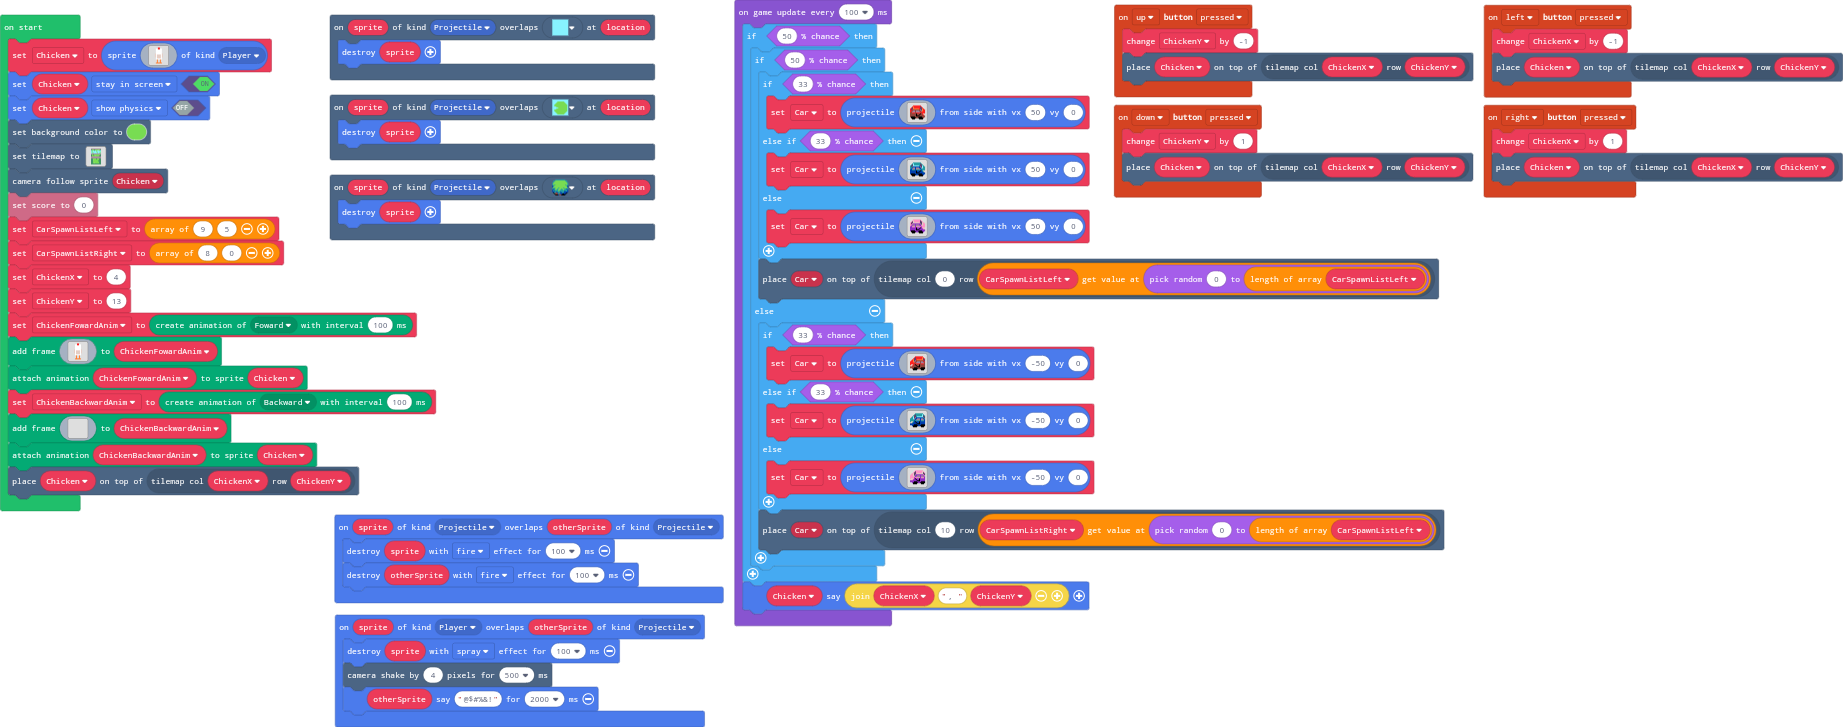
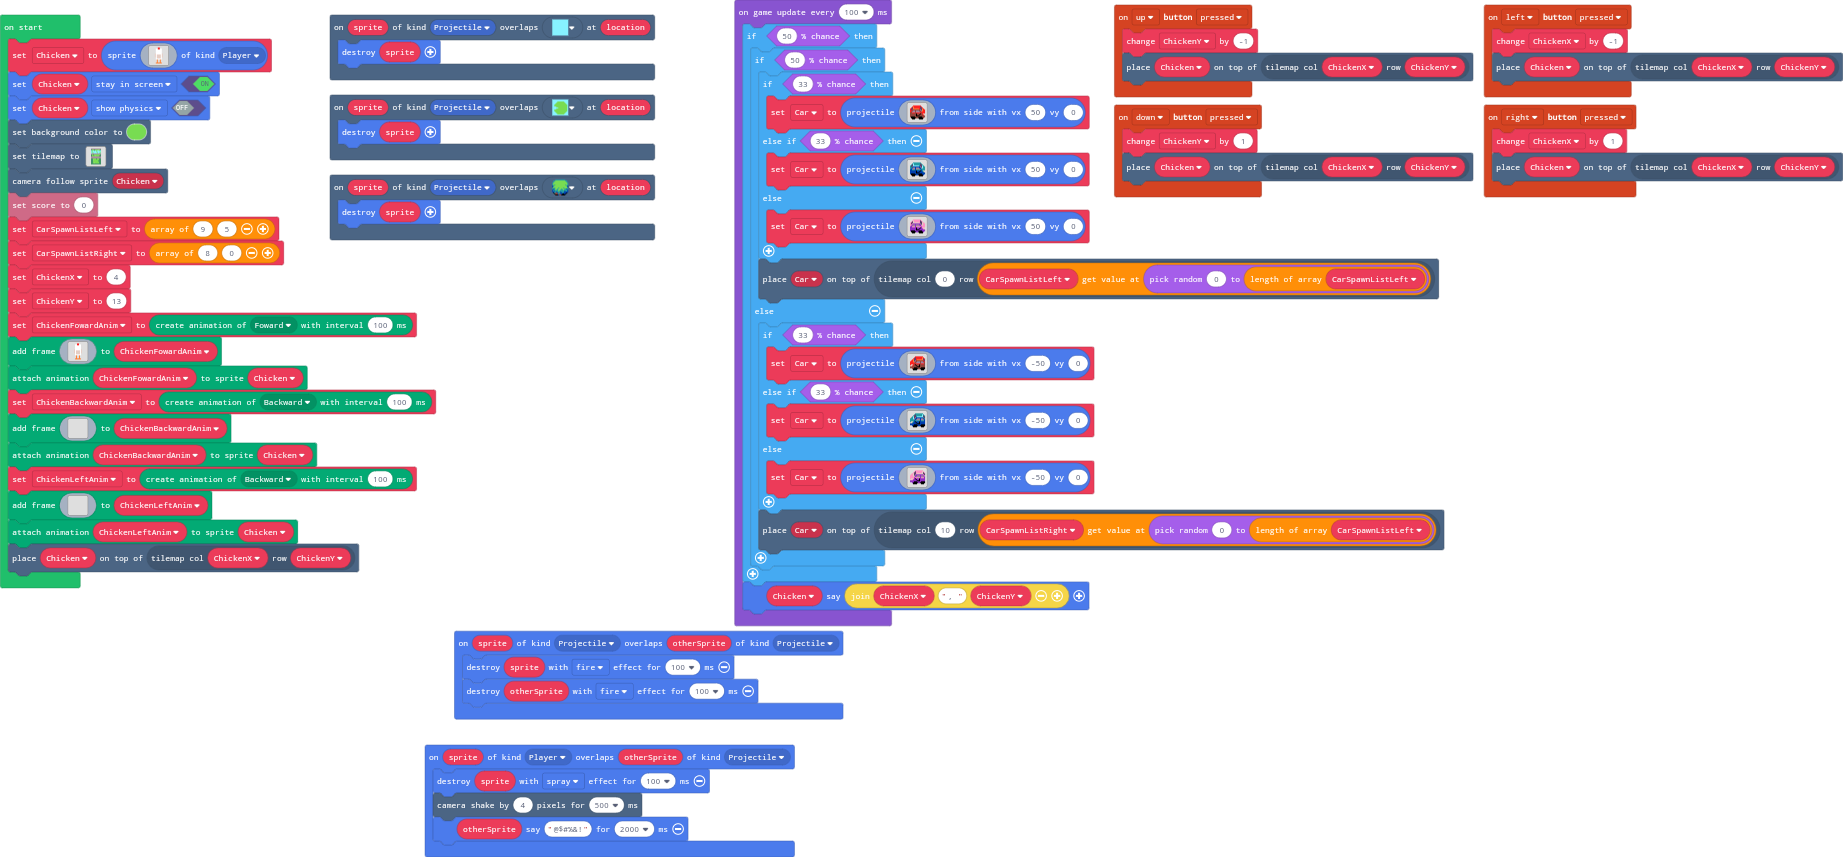
Update main.blocks, main.ts

diff --git a/main.ts b/main.ts
@@ -211,6 +211,26 @@ ChickenBackwardAnim.addAnimationFrame(img`
 . . . . . . . . . . . . . . . . 
 `)
 animation.attachAnimation(Chicken, ChickenBackwardAnim)
+let ChickenLeftAnim = animation.createAnimation(ActionKind.Backward, 100)
+ChickenLeftAnim.addAnimationFrame(img`
+. . . . . . . . . . . . . . . . 
+. . . . . . . . . . . . . . . . 
+. . . . . . . . . . . . . . . . 
+. . . . . . . . . . . . . . . . 
+. . . . . . . . . . . . . . . . 
+. . . . . . . . . . . . . . . . 
+. . . . . . . . . . . . . . . . 
+. . . . . . . . . . . . . . . . 
+. . . . . . . . . . . . . . . . 
+. . . . . . . . . . . . . . . . 
+. . . . . . . . . . . . . . . . 
+. . . . . . . . . . . . . . . . 
+. . . . . . . . . . . . . . . . 
+. . . . . . . . . . . . . . . . 
+. . . . . . . . . . . . . . . . 
+. . . . . . . . . . . . . . . . 
+`)
+animation.attachAnimation(Chicken, ChickenLeftAnim)
 tiles.placeOnTile(Chicken, tiles.getTileLocation(ChickenX, ChickenY))
 game.onUpdateInterval(100, function () {
     if (Math.percentChance(50)) {
